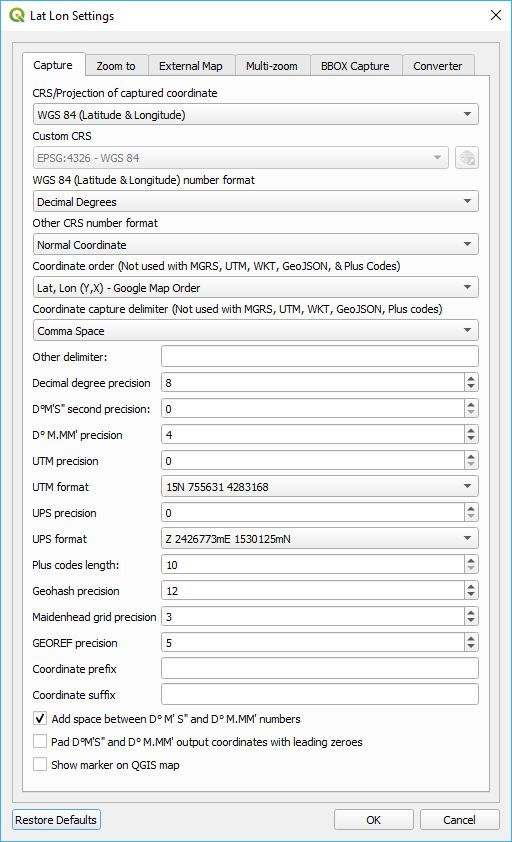
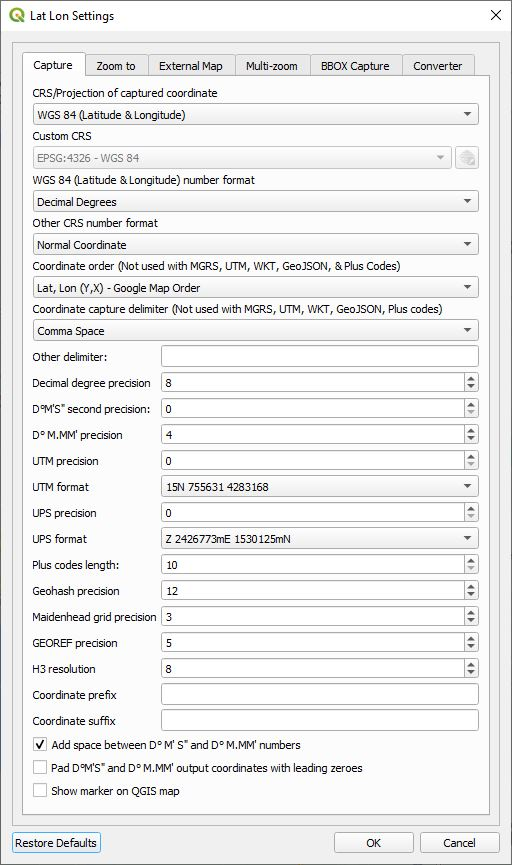
update documentation

Changed region(s): [[0.0, 0.0, 1.0, 1.0], [0.8438, 0.1235, 0.9375, 0.1853]]

diff --git a/readme.md b/readme.md
@@ -16,11 +16,11 @@ A number of the conversions can be accessed as field calculator functions. When 
 
 <div style="text-align:center"><img src="doc/calculator.jpg" alt="field calculator"></div>
 
-* <img src="images/copyicon.svg" alt="Copy/Display coordinate"> ***Copy/Display Coordinate*** - This captures coordinates onto the clipboard when the user clicks on the map, using the standard Google Map format or a format specified in ***Settings***. If the user specifies a **Tab** separator, then the coordinate can be pasted into a spreadsheet in separate columns. While this tool is selected, the coordinate the mouse is over is shown in the lower left-hand corner either in **decimal degrees**, **DMS**, **Degrees Minutes**, **MGRS**, **Standard UTM**, **UPS**, **GEOREF**, **Plus Codes (Open Location Code)**, **Geohash**, **Maidenhead Grid Locator**, **WKT POINT**, or **GeoJSON** notation depending on the **Settings**. By default it uses the geographic Latitude and Longitude to snapshot the coordinate, but this can be configured in **Settings** to use the project CRS or any other projection desired. See the **Settings** section for more details on the all the possibilities. An additional prefix or suffix can be added to the coordinate and is configured in **Settings**. If snapping is enabled under QGIS ***Project->Snapping Options...*** menu, then *Copy/Display Coordinate* will snap to any close vector vertices according to the parameters set in the snapping options.
+* <img src="images/copyicon.svg" alt="Copy/Display coordinate"> ***Copy/Display Coordinate*** - This captures coordinates onto the clipboard when the user clicks on the map, using the standard Google Map format or a format specified in ***Settings***. If the user specifies a **Tab** separator, then the coordinate can be pasted into a spreadsheet in separate columns. While this tool is selected, the coordinate the mouse is over is shown in the lower left-hand corner either in **decimal degrees**, **DMS**, **Degrees Minutes**, **MGRS**, **Standard UTM**, **UPS**, **GEOREF**, **Plus Codes (Open Location Code)**, **Geohash**, **H3** (if the H3 library is installed), **Maidenhead Grid Locator**, **WKT POINT**, or **GeoJSON** notation depending on the **Settings**. By default it uses the geographic Latitude and Longitude to snapshot the coordinate, but this can be configured in **Settings** to use the project CRS or any other projection desired. See the **Settings** section for more details on the all the possibilities. An additional prefix or suffix can be added to the coordinate and is configured in **Settings**. If snapping is enabled under QGIS ***Project->Snapping Options...*** menu, then *Copy/Display Coordinate* will snap to any close vector vertices according to the parameters set in the snapping options.
   
 * <img src="images/mapicon.png" width=24 height=24 alt="Show in External Map"> ***Show in External Map*** - With this tool, the user can click on the QGIS map which launches an external browser and displays the location on an external map. The left and right mouse buttons can be configured to show different maps. Currently Open Street Map, Google Maps, Google Earth Web, MapQuest, Mapillary, Open Street Map iD Editor, and Bing Maps are supported along with Google Earth if it is installed on the system. The desired map that is displayed can be configured in ***Settings*** along with additional user added map services. A temporary marker can be displayed on the map at the location clicked on. To turn this on go to **Settings**. If snapping is enabled, then the clicked location will snap to any close vector vertices according to the parameters set in the snapping options.
 
-* <img src="images/zoomicon.svg" alt="Zoom-to"> ***Zoom to Coordinate*** - With this tool, type or paste a coordinate into the text area and hit **Enter**. QGIS centers the map on the coordinate, highlights the location and creates a temporary marker at the location. Pressing the <img src="doc/zoomtool.jpg" alt="Zoom button"> also causes QGIS to zoom to that location. The marker can be removed with the <img src="doc/cleartool.jpg" alt="Clear marker"> button. Pressing <img src="doc/pastecoord.jpg" alt="paste coordinate"> **Paste Coordinate from Clipboard** button pastes the contents of the clipboard into the text area. If the default **WGS 84** (EPSG:4326 - latitude/longitude) coordinate system is specified, ***Zoom to Coordinate*** can interpret **decimal degrees**, **DMS**, **WKT POINT**, **Standard UTM**, **UPS**, **MGRS**, **GEOREF**, **Plus Codes (Open Location Code)**, or **GeoJSON** coordinates. It can also zoom to **Geohash** coordinates, amateur radio Maidenhead grid coordinates, or any other projection when configured in **Settings**. The ***Coordinate Order*** in ***Settings*** dictates whether the order is latitude followed by longitude (Y,X) or longitude followed by latitude (X,Y). By default the order is "Latitude, Longitude", the format used by Google Maps. The behavior and coordinate types that are interpreted can be configured by pressing the **Settings** button <img src="doc/settings.png">.<br /><div style="text-align:center"><img src="doc/zoomto.jpg" alt="Zoom to Latitude, Longitude"></div><br />The following are acceptable coordinate formats when the ***Settings*** **Zoom to Coordinate Type** is set to ***WGS 84 (Latitude & Longitude)***. When the letters "N, S, E, W" are used, then the coordinate order is not important. These letters can be used before or after the coordinates. As long as the coordinate is understandable, punctuation, spaces, and &deg; ' " are optional. In these examples "d" represents degree digits, "m" minutes, and "s" seconds. Here are some example input formats:
+* <img src="images/zoomicon.svg" alt="Zoom-to"> ***Zoom to Coordinate*** - With this tool, type or paste a coordinate into the text area and hit **Enter**. QGIS centers the map on the coordinate, highlights the location and creates a temporary marker at the location. Pressing the <img src="doc/zoomtool.jpg" alt="Zoom button"> also causes QGIS to zoom to that location. For formats that represent a region rather than a point such as **Geohash**, **H3**, **Maindenhead**, and **Plus Codes (Open Location Code)** it displays the region area along with the center point. The marker can be removed with the <img src="doc/cleartool.jpg" alt="Clear marker"> button. Pressing <img src="doc/pastecoord.jpg" alt="paste coordinate"> **Paste Coordinate from Clipboard** button pastes the contents of the clipboard into the text area. If the default **WGS 84** (EPSG:4326 - latitude/longitude) coordinate system is specified, ***Zoom to Coordinate*** can interpret **decimal degrees**, **DMS**, **WKT POINT**, **Standard UTM**, **UPS**, **MGRS**, **GEOREF**, **Plus Codes (Open Location Code)**, or **GeoJSON** coordinates. It can also zoom to **Geohash** coordinates, amateur radio **Maidenhead** grid coordinates, **H3** geohash coordinates (if the H3 library is installed), or any other projection when configured in **Settings**. The ***Coordinate Order*** in ***Settings*** dictates whether the order is latitude followed by longitude (Y,X) or longitude followed by latitude (X,Y). By default the order is "Latitude, Longitude", the format used by Google Maps. The behavior and coordinate types that are interpreted can be configured by pressing the **Settings** button <img src="doc/settings.png">.<br /><div style="text-align:center"><img src="doc/zoomto.jpg" alt="Zoom to Latitude, Longitude"></div><br />The following are acceptable coordinate formats when the ***Settings*** **Zoom to Coordinate Type** is set to ***WGS 84 (Latitude & Longitude)***. When the letters "N, S, E, W" are used, then the coordinate order is not important. These letters can be used before or after the coordinates. As long as the coordinate is understandable, punctuation, spaces, and &deg; ' " are optional. In these examples "d" represents degree digits, "m" minutes, and "s" seconds. Here are some example input formats:
 
     * Decimal Degree: 38.959390&deg;, -95.265483&deg; / 38.959390, -95.265483 / 38.959390N, 95.265483 W (d.dddd, d.dddd)
     * Degree, Minute: 38&deg; 57.5634'N 95&deg; 15.92890'W (d m.mmmm, d m.mmmm)
@@ -43,6 +43,7 @@ A number of the conversions can be accessed as field calculator functions. When 
     * Example Plus Code coordinate when **Zoom to Coordinate Type** is set to ***Plus Codes***: 86C6XP5M+QR
     * Example Geohash coordinate when **Zoom to Coordinate Type** is set to ***Geohash***: 9yum8hmfckem
     * Example Amateur Radio Maidenhead coordinate when **Zoom to Coordinate Type** is set to ***Maidenhead Grid Locator***: EM28ix (Note that the center point of the grid is the location that is returned.)
+    * Example H3 geohash coordinate when **Zoom to Coordinate Type** is set to ***H3***: 8826e5badbfffff
 
 * <img src="images/multizoom.svg" alt="Multi-location Zoom"> ***Multi-location Zoom*** - Here the user can define a set of quick zoom-to locations. The user can also paste in or type in a coordinate in the ***Enter coordinate*** box to add it to the list. By default the format of the data entered is **"latitude,longitude[,label,data1,...,data10]"** where the contents in [...] are optional. Various input formats are supported and can be configured in **Settings** by selecting the input projection and coordinate order. These include:
 
@@ -207,6 +208,7 @@ The order in which the coordinates are captured is determined by ***Coordinate o
 * ***Geohash precision*** - Used when formatting Geohash coordinates.
 * ***Maidenhead grid precision*** - Used when formatting Amateur Radio Maidenhead grid coordinates.The value ranges from 1 to 4.
 * ***GEOREF precision*** - Used when formatting GEOREF coordinates. The maximum value is 10.
+* ***H3 precision*** - Used when formatting H3 coordinates when the H3 library is installed. Values range from 0 to 15.
 * ***Coordinate prefix*** - This text string is added to the beginning of the captured coordinate.
 * ***Coordinate suffix*** - This text string is added to the end of the captured coordinate.
 * ***Add space between D&deg; M' S" and D&deg; M.MM' numbers*** - When checked a space will be added between each pair of numbers.
@@ -227,6 +229,7 @@ The ***Zoom to Latitude, Longitude*** tool accepts the following input coordinat
 * **Standard UTM** - This only accepts **Standard UTM** coordinates as input.
 * **Geohash** - This only accepts **Geohash** coordinates as input.
 * **Maidenhead Grid** - This only accepts **Maidenhead Grid** coordinates as input.
+* **H3** - This will only be available if the H3 library is installed. It only accepts **H3** coordinates as input.
 
 The order in which the coordinates are parsed in the ***Zoom to Latitude, Longitude*** tool is specified by ***Zoom to Coordinate Type*** and has the following two options: This is not applicable for **WKT**, **GeoJSON**, **MGRS**, **Plus Codes**, and **Standard UTM** coordinates.
 
@@ -235,7 +238,9 @@ The order in which the coordinates are parsed in the ***Zoom to Latitude, Longit
 
 **Use Persistent Marker** - If this is checked, then when you zoom to a coordinate a persistent marker is displayed until you exit, zoom to another location, or click on the <img src="doc/cleartool.jpg" alt="Clear marker"> button.
 
-* **Show marker on QGIS map** - If checked a temporary marker will be displayed at the location click on.
+**Show coordinate resolution area** - Some coordinate formats represent an area rather than a point depending on its resolution. These include Geohash, H3, Plus Codes, and Maindenhead. If this is checked, then when you zoom to a coordinate the area represented by the coordinate is displayed until you exit, zoom to another location, or click on the <img src="doc/cleartool.jpg" alt="Clear marker"> button.
+
+The colors of the marker and coordinate resolution area bounding box can be changed by setting the **Marker color** and **Grid color**.
 
 ### External Map Settings
 
